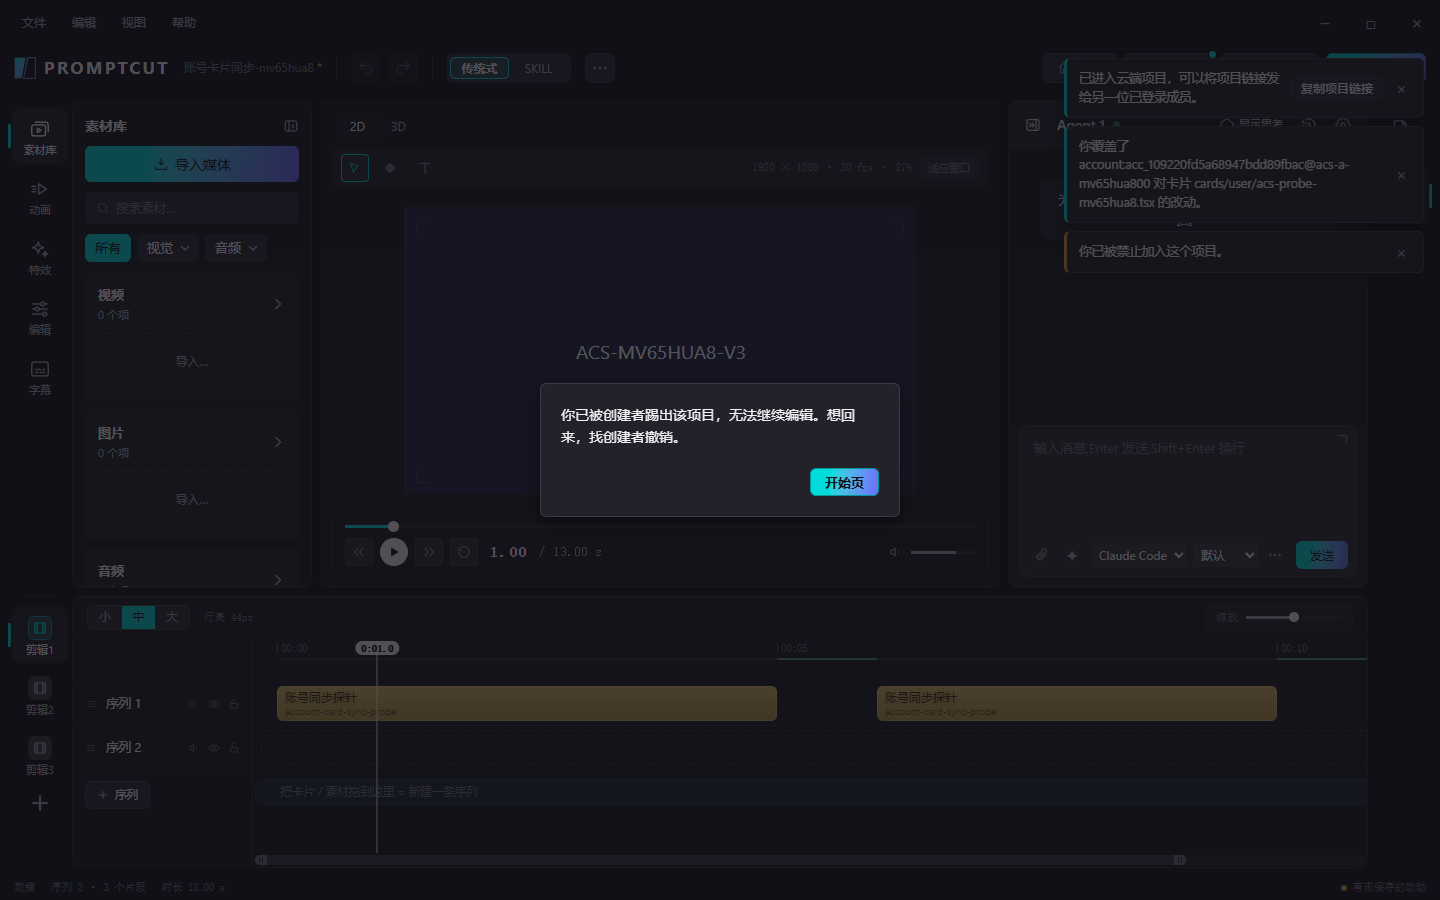
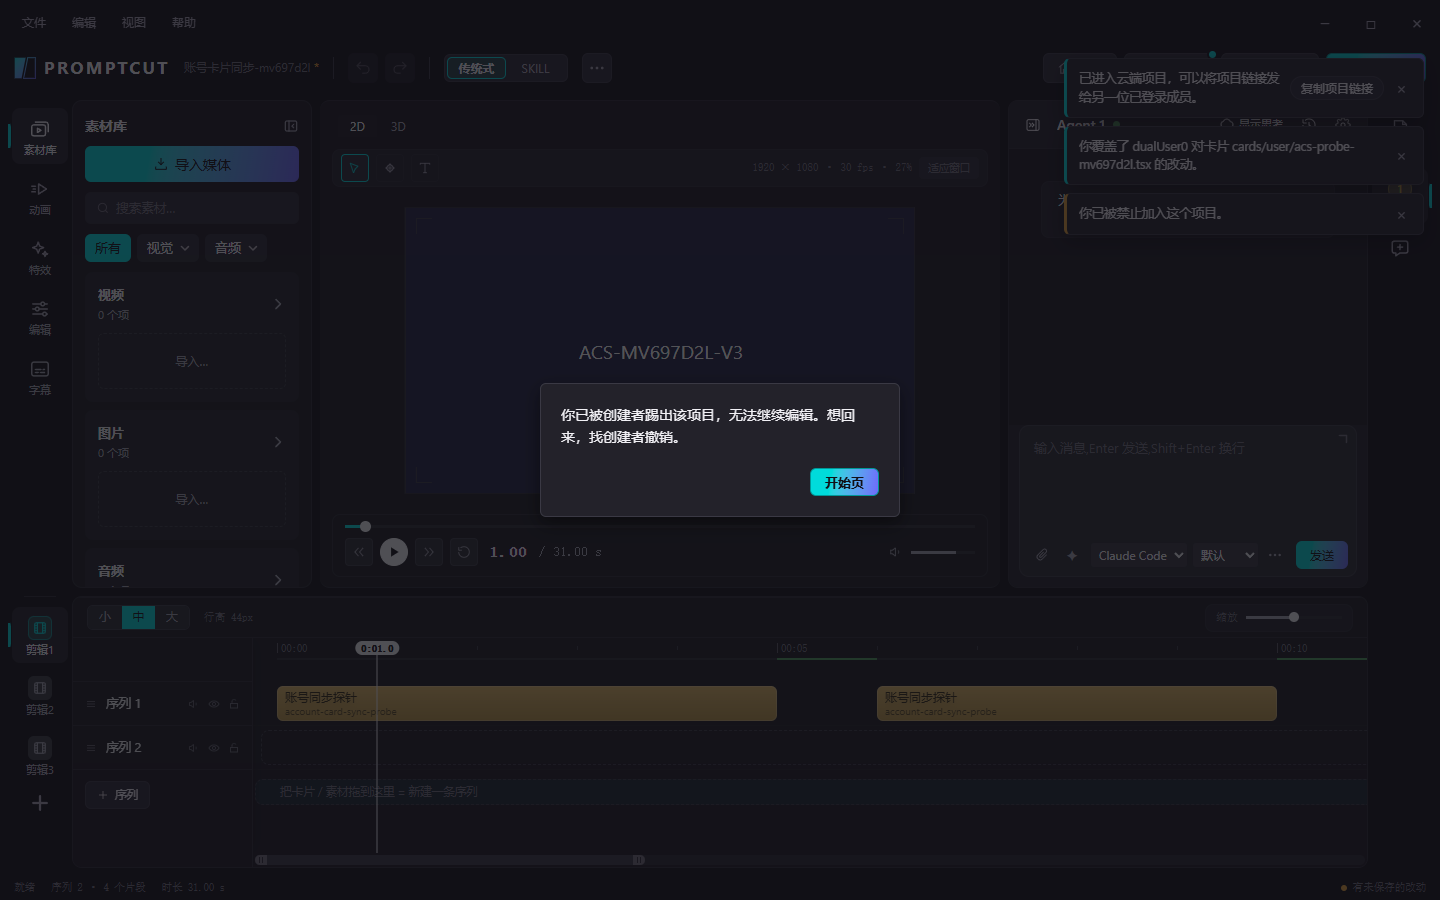
探针与报告:连接寿命场景(真实 120 秒令牌下 30/130/250/400 秒各改一次、断一次传输、冻结醒来、账号服务不通)、在线页面不再放宽舞台源;页面回到前台或醒来当场查连接到期,成员名字进项目就取;第二轮报告

diff --git a/src/editor/sync/syncManager.ts b/src/editor/sync/syncManager.ts
@@ -1253,12 +1253,21 @@ export async function enterAccountProject(options: { client: CloudAccountClient;
           if (!isCurrent()) return;
           void renew().catch(error => { if (error instanceof AccountFailure && (error.status === 401 || error.status === 403)) fail(error); });
           void life.tick();
-        }, 3000);
+        }, 3000);
         cur.offs.push(() => clearInterval(metadataTimer));
+        // 页面回到前台、网络恢复、电脑睡眠醒来:不等定时器(后台标签页的定时器会被浏览器压到一分钟一次),当场看一眼连接到期没有
+        const wake = () => { if (isCurrent() && (typeof document === "undefined" || document.visibilityState !== "hidden")) void life.tick(); };
+        if (typeof window !== "undefined") {
+          window.addEventListener("online", wake); window.addEventListener("focus", wake); window.addEventListener("pageshow", wake);
+          document.addEventListener("visibilitychange", wake);
+          cur.offs.push(() => { window.removeEventListener("online", wake); window.removeEventListener("focus", wake); window.removeEventListener("pageshow", wake); document.removeEventListener("visibilitychange", wake); });
+        }
       }
       await connectSharedAssets(link, base, { online: ONLINE_BUILD || ONLINE, account: { base: `${origin}/media/api/asset`, projectId: options.projectId, ticket } });
       link.send({ type: 'events.list' });
       ready = true; resolveEntry();
+      // 成员名字(提示气泡里「谁改的」)进来就取一次,之后成员有变化再取
+      projectSession(current);
       const linkText = `${origin}/editor?project=${encodeURIComponent(options.projectId)}`;
       pushToast('已进入云端项目，可以将项目链接发给另一位已登录成员。', 'info', Infinity, {
         label: '复制项目链接', pc: 'cloud-project-copy', run: () => { void navigator.clipboard.writeText(linkText).then(

diff --git a/docs/reports/AGENT-v18-cardsync.md b/docs/reports/AGENT-v18-cardsync.md
@@ -151,3 +151,143 @@
 - 我的分支上有一次改写：最初一轮探针的截图里有「选择 AI 助手的驱动方式」对话框，上面显示了本机某个配置项的后四位（带掩码）。那几张图进过提交 `67101c36`，我用 `--amend` 换成了干净的图（现在是 `bffc6dcc`），旧提交只剩在这个仓库的 reflog 里，没有推送过。要不要清 reflog 由主会话定。探针现在截图前会关掉这个对话框，关不掉就不截。
 - 探针和测试用的端口：探针 28640～28658，测试 28670～28676。
 - `out/v18-cardsync/` 下是在线构建和日志（已被忽略，不入库）。
+
+---
+
+# 第二轮（2026-10-13）：页面连接的寿命、接续、在线页面执行用户卡、两处小的
+
+主会话追加的四条。先 `git merge main`（`365edfd7`），之后每条一个提交。上文「发现的三个现状问题」对应这里的第 1、2、3 条，已修；上文验收里「在线页面画不出来」现在画得出来（探针里放宽舞台源的临时做法已去掉）。
+
+名词补充：**换会话** = 页面凭一张新票据再建一条到文档服务的连接，建好后切过去，旧的那条作废；**接续** = 网络断了一下之后在原来那条会话上接回去，不用重新进项目。
+
+## 提交
+
+| 提交 | 条 | 内容 |
+|---|---|---|
+| `da3ec73c` | 1 | 页面连接到期前换会话；真服务测试；探针的连接寿命场景 |
+| `cc2b98b3` | 2 | 接续不带票据 |
+| `f49a4220` | 3 | 舞台源票据交接认两种票据形状；nginx 舞台站点模板 |
+| `2f8f51ba` | 1 的补 | 关闭码不当终局、只读改可写时换会话（第 2 条修好后才露出来的，见下）；成员名字的名单也在这个提交里取（和第 4 条在同一个文件里，没拆开） |
+| `eacd912a` | 4 | 提示气泡按账号显示成员名字 |
+| 收尾提交 | 1、4 | 回到前台 / 醒来当场查到期、名字进项目就取；探针与报告 |
+
+## 1 页面的账号连接约两分钟后写不进云端
+
+**做法**：和卡片同步同一个思路（到期前换会话），但页面这边是「先建好新的再切」，不是先断再连：
+
+- `src/editor/sync/accountLinkLife.ts`（新）：什么时候换。每 3 秒看一次墙上时钟，离票据到期不到 30 秒就换；取票据时要求访问令牌至少还剩 60 秒（`src/account/client.ts` 第 102～104、208 行给 `session()` 加了 `minRemainingMs`）。回到前台、网络恢复、睡眠醒来时不等定时器，当场看一次。
+- `src/editor/sync/link.ts` 的 `renew()`（第 203～260 行一带）：新会话建成后，最多等 8 秒让旧会话上没确认的提交落定，然后切过去；旧会话再留 5 秒只为收完已发请求的回包。
+- `src/store/docsync.ts` 的 `handover()`（第 463～481 行）：切的那一刻不记成离线，没确认的提交在新会话上补发，文档服务按提交号去重；所以别人恰好这时改了项目也不会弹离线对话框。切的这一下没有新版本时，手里的项目对象原样留着，界面不重算（第 554～558 行）。换连接后确认先后颠倒不再触发整份重取（第 677～679 行）。
+- `src/editor/sync/syncManager.ts` 的 `enterAccountProject`：接上寿命模块；重新建成会话时不再把进项目的整套流程重跑一遍（原来每次重连都会再弹一次「已进入云端项目」）。
+
+**换不成时**（都用现有的状态和文案，没有新字）：
+
+| 情况 | 页面 |
+|---|---|
+| 账号服务一时不通 | 到期之前一直重试，页面照常；到期那一刻还没换成 → 按断线处理，状态变「离线」，改动进离线队列；通了之后照现有的离线重连补发 |
+| 退出登录 | 现有的 `fail`：停连接，气泡「登录已失效，请重新登录。」 |
+| 被踢 | 现有的被踢弹窗 +「你已被禁止加入这个项目。」 |
+| 项目被删 | 气泡「这个云端项目已不存在。」（客户端里已有的句子，原来对不上服务端的错误码，现在接上了） |
+| 连接已经过期才发现（睡眠醒来） | 文档服务回「凭证到期」时当场换，没确认的改动在新会话上补发；换不成转离线 |
+
+**第 2 条修好后露出来的一件事，一并处理了**：创建者把成员从可写改成只读时，服务端会关掉这位成员的旧连接，用的关闭码和「被踢」是同一个（4003）。原来接续一直失败，页面歪打正着地重新连上了；接续修好后页面会把它当成被踢。现在账号项目里关闭码不当终局，重连时取票据的接口回 401 / 403 / 404 才收场（`link.ts` 的 `isFatalClose`）。反过来只读改回可写时服务端不关旧连接，旧连接一直是只读，所以页面读到自己的权限变了就换一个会话（`accountLinkLife.ts` 的 `accessSeen`）。
+
+**测试（先红后绿）**
+
+- `server/test/account-page-link.test.mjs`（新，真的账号 / 文档 / 素材服务，访问令牌是真实的 120 秒，全程约 140 秒）。命令 `npm test -- server/test/account-page-link.test.mjs`，退出码 0，11 步全过：
+
+```
+2 丙换了 5 次会话(取会话 6 次),丙、乙各 24 处改动全部落地,版本 +48,没有被拒、没有离线
+1 登录 31 秒:甲改一次,乙看得到,版本 49 → 50
+1b 传输断一次:乙230 毫秒接回,864 毫秒后收到甲之后的改动,会话没断
+3 账号服务不通:丙到期后转离线(关闭码 4401,3446 毫秒后恢复),离线时的改动恢复后补发
+4 登录 131 秒:甲改一次,乙看得到,版本 52 → 53,甲显示 online、未确认 0 条、换过 1 次会话、被闸拒 0 次
+5 睡眠醒来:丁的连接过期后被闸拒(authorization-expired),当场换会话补发成功,版本 53 → 54
+5b 可写改只读:乙的连接被关(4003)后重新连上,照常收到别人的改动;改回可写后换一个会话、照常写
+6 被踢:乙、丙的连接被关,重连时取票据回 {"status":403,"code":"banned"},不再重连
+8 退出登录:丁的连接被关,终局 [{"status":401,"code":"credential-revoked"}]
+7 项目被删:甲的连接被关,重连时取票据回 {"status":404,"code":"no-project"}
+```
+
+- **红**：同一个文件加 `ACCOUNT_PAGE_LINK_REPRO_OLD=1`（页面不换会话、不理会「凭证到期」、接续带票据，即改之前的样子），退出码 1：
+  - 第 4 步：`登录 140 秒:甲改一次,乙看不到,版本 51 → 51,甲显示 online、未确认 1 条、换过 0 次会话、被闸拒 1 次`（这就是上一轮「161 秒后放片段、版本 10 → 10」的复现）；
+  - 第 1b 步：`传输断一次:乙没接回,60425 毫秒后收到甲之后的改动`。
+- 单元测试：`src/store/docsync.test.mjs` 新增 HO-01～05（换连接不丢、去重、不换对象、离线批次不受影响、确认颠倒不重取）；`src/editor/sync/accountLinkLife.test.mjs`（新）ALL-01～07。
+
+**探针**（`scripts/probes/account-card-sync-probe.mjs --scenario link`，真服务 + 两个桌面编辑器进程 + 在线页面，真实的 120 秒令牌，约 9 分钟）。最后一次结果见文末「最终验证」。改之前跑的那一次（第 2 条还没修）：断一次传输 90 秒才收到之后的改动；修完之后：
+
+| 项 | 结果 |
+|---|---|
+| 登录 30 / 130 / 250 / 400 秒，桌面（甲）改一次、在线页面（或乙）改一次 | 每次别的成员都看得到，服务端版本 7→15、15→23、23→29、33→41 |
+| 甲 400 秒里 | 换了 4 次会话，连接没作废过；页面只显示过「在线」和换会话瞬间的「连接中」，没有「离线」；「已进入云端项目」只弹一次 |
+| 在线页面冻结 139 秒（超过一个令牌寿命）后醒来 | 追上睡着时别人的改动，自己再改甲看得到 |
+| 甲的账号服务不通 | 81 秒后（票据到期）页面显示离线，离线时放的片段乙看不到；恢复后补发，乙看得到，甲回到在线 |
+
+## 2 接续带了票据一直回 400
+
+- 页面上复现：探针里乙（桌面页面）`cut()` 断一次传输，改之前 **90 秒**才收到甲之后的改动（接续一直失败，等 60 秒保留期过完才重建会话）；真服务测试第 1b 步改之前 60.4 秒。
+- 改动：`syncManager.ts` 的 `enterAccountProject` 不再给 `resumeProtocols`（一行）。接续只带会话项，服务端按会话里记下的身份重新核对登录与成员资格。
+- 改之后：探针 **614 毫秒**接回、943 毫秒收到之后的改动；测试第 1b 步 230 毫秒接回，会话没断。
+- `src/editor/sync/reconnect.test.mjs` 里原来有一条测试把「接续带票据」钉成了预期，改成「接续只带会话项」，并用文档服务自己的握手判定核对（旧写法被判成写法不对）。
+
+## 3 账号项目里在线页面不执行用户卡
+
+- `src/online/stagePolicy.mjs` 第 31～37 行：`TICKET_PATTERN` 改成两种形状各自写死：`v1.<…>.<…>`，或恰好 43 个 base64url 字符。只改了这一处。
+- `server/hosted/deploy/nginx-site-promptcut-stages.conf` 第 14、17、25、28 行跟着改（这份模板是手写的，不是生成的；`scripts/gen-stage-policy-nginx.mjs` 生成的是两个策略头片段，重跑过，「一致」，没有变化）。
+- 测试：`src/online/stagePolicy.test.mjs` 新增 OCS-P-09（两种都认；长度差一个、带别的字符、两种拼接、`v1` 缺段一概不认；来源与方法的限制对账号票据同样有效）；`server/test/stage-policy-nginx.test.mjs` 的 OCS-N-03 补了两行。原有的舞台策略测试照过（两个文件 16 条全过）。
+- 探针：放宽舞台源的临时改动已删，舞台源用的就是 `stagePolicy.mjs` 的判定。在线页面执行闸门 `enabled: true`，用户卡状态 `ready`，舞台画出 V1，甲改卡后换成 V2；票据交接没有被拒。图 `2-c-online-v1.png`、`3-c-online-v2.png`。
+
+### 主会话部署时要做的
+
+线上文件 `/etc/nginx/sites-available/promptcut-stages`（s1、s2 两个舞台源），两处，都在文件开头的 `map` 块里：
+
+1. `map $http_authorization $pc_grant_ticket` 里那一行，换成：
+   `"~^Bearer (?<pc_gt>(?:v1\.[A-Za-z0-9_-]{1,1600}\.[A-Za-z0-9_-]{1,200}|[A-Za-z0-9_-]{43}))$" $pc_gt;`
+2. `map "$request_method|$pc_grant_origin_ok|$pc_grant_ticket" $pc_grant_cookie` 里那一行的开头，从 `"~^POST\|1\|(?<pc_gt2>v1\..+)$"` 换成 `"~^POST\|1\|(?<pc_gt2>.+)$"`，后面的 cookie 串不动。
+
+也可以直接拿仓库里的模板替换 `{{DOMAIN}}`、`{{BIND_ADDR}}` 后整份换上。主站的配置、两个策略头片段不用动。顺序：先备份原文件，改完 `nginx -t`，通过后 `systemctl reload nginx`（不用重启任何服务，也不用先换页面：旧页面发的仍是旧票据，照样认）。
+
+验证（把域名换成线上的）：
+
+- `curl -i -X POST https://s1.<域名>/media-s/<32 位十六进制>/_grant -H "Origin: https://<域名>" -H "Authorization: Bearer <43 个字母数字>"` 应回 **204** 且带 `Set-Cookie: pc_rt=…`（改之前回 400）。票据是随便编的也行，这一步只看形状；
+- 同一条命令把票据改成 42 个字符，应回 **400**；把 `Origin` 改成别的站，应回 **403**；
+- 然后在线页面进一个账号项目、放一张用户卡，舞台上画得出来（不再是「需要本地 PC 渲染辅助」）。
+
+回退：把备份的文件放回去，`nginx -t && systemctl reload nginx`。回退后账号项目里在线页面退回不执行用户卡，别的不受影响。
+
+## 4 两处小的
+
+**提示气泡把写入者显示成 `account:acc_…@设备号`**。原因：非账号项目里，气泡按成员名单把写入身份换成显示名；账号项目的成员名单不走那条路，页面手里是空的。改法照非账号项目的做法：进项目时取一次账号成员名单（之后成员有变化再取），按账号查名字（`src/editor/sync/labels.ts` 第 91～96、132～133 行；`syncManager.ts` 的 `displayNames`）。探针截图 `3-b-desktop-v2.png` 里现在是「已同步为 dualUser0 的版本」。涉及给用户看的字的两点见下「要用户定的事」。
+
+**乙进项目时甲页面弹「你的近期修改已被…覆盖」**。是误报，和账号无关，旧共享项目里同样会有。探针抓到的原始消息：被覆盖的是 `/meta/duration`（项目总时长），覆盖它的是乙页面的一次 `set /duration`。甲放片段时自己写过一次总时长；乙进来收到这个片段后，乙的页面也照自己手里的时间轴重算了一遍总时长并写回去；文档服务看到「甲刚写过的东西被乙写了」就通知甲。总时长是每个页面都会自动重算的派生值，内容没丢。没改（不在这次范围里，改法也要定：别人的改动引起的重算不写回，或者这个字段不发覆盖通知）。
+
+## 这一轮看到、没处理的
+
+- **新用户卡偶尔画不到对方桌面的舞台上**：四次整跑里有一次，乙的改动层和页面注册表都有了这张卡，但两个舞台窗口里的注册表没有（`known: false`），90 秒没画出来；那一次两个编辑器进程起得特别慢。像是开发服务器给舞台窗口推热更新的时序问题，和账号无关。没查。
+- **账号服务不通时气泡重复弹**：每次重连取票据失败都弹一条「云端服务暂时不可用，请稍后重试。」，探针里同时挂着两条。原有行为。
+- **文档服务对账号连接落提交很慢**：每条提交都要问账号服务，这台机器上一秒落两三条。测试里两个人各 0.5 秒改一次就有积压。没查线上是不是也这样。
+- **每换一次会话要重新取一遍整份项目**（约 90 秒一次）。换的这一下没有新版本时界面不重算，但服务端照样要发一份。项目很大时是个开销。更省的办法是让文档服务支持「在原连接上换票据」，那要改协议和服务端，这次没做。
+- 第 3 条修好后在线页面的截图 `2-c-online-as-is.png` 已不再生成，旧文件删了。
+
+## 没做成的
+
+- 真的桌面外壳仍没参与验证；云端 Agent 仍是模拟的（同上一轮）。
+- 「睡眠醒来」在页面上是用冻结在线页面模拟的；桌面这两页是开发服务器给的，冻结后热更新通道断开、醒来会整页重载，所以桌面的这一条只有真服务测试里「计时器停着」的那一步，没有页面级的。
+- `2f8f51ba` 里混了第 4 条取成员名单的那几行（和第 1 条的补丁在同一个文件的同一段里）。
+
+## 要用户定的事
+
+1. **账号项目里成员名字显示什么**。现在显示账号名（例如「已同步为 dualUser0 的版本」）。非账号项目里同名的人会带上设备名来区分；账号项目里同一个账号在两台设备上，现在两边都只显示账号名。要不要带设备名，请定。名单还没取到的头一两秒里，气泡仍会显示内部标识；要不要改成一句固定的话（比如「别人」），也请定。
+2. **项目被删时的气泡**。现在用的是客户端里原有的「这个云端项目已不存在。」，原来因为错误码对不上，实际显示的是「请求失败（no-project）。」。如果这句不合适请给原文。
+3. **账号服务一时不通时页面显示「离线」**。用的是现有的离线状态和离线对话框，没有单独的说法。要不要单独告诉用户「账号服务连不上」，请定。
+4. **「你的近期修改已被…覆盖」的误报**要不要修、怎么修（见上第 4 条）。
+
+## 最终验证
+
+全部在最后一次改动（回到前台 / 醒来当场查到期、名字进项目就取）之后跑的：
+
+- `npx tsc -b --force`：退出码 0。
+- `npm test`（设了两个环境变量）：退出码 0，6292 条：6271 通过、0 失败、8 跳过、13 条待办（待办是 main 上验收映射钉住的已知问题，输出里带 ⚠，不算失败）。一遍过，没有重跑。windows-hide 守门测试在内。
+- 探针连接寿命场景 `--scenario link`：退出码 0，17 项全过。断一次传输 634 毫秒接回、1050 毫秒收到之后的改动；30 / 130 / 250 / 400 秒四次版本 7→15、15→23、23→29、33→41；甲换了 4 次会话，页面状态流水只有「在线」；在线页面冻结 140 秒，回到前台后 1.3 秒追上、自己的改动 2.7 秒后甲看得到；账号服务不通 90 秒后（票据到期）显示离线，恢复后补发。图 `link-a-account-service-down.png`（顶栏「离线」）、`link-a-recovered.png`。
+- 探针卡片场景（缺省）：退出码 0，49 项全过。在线页面执行闸门开着、画出 V1 与 V2（舞台源没有放宽）；登录 151 秒后甲在页面里放片段，乙看得到，服务端版本 10→14。
+- 收尾：没有可见窗口，28640～28679 没有监听，没有残留的 node / chrome 进程。
